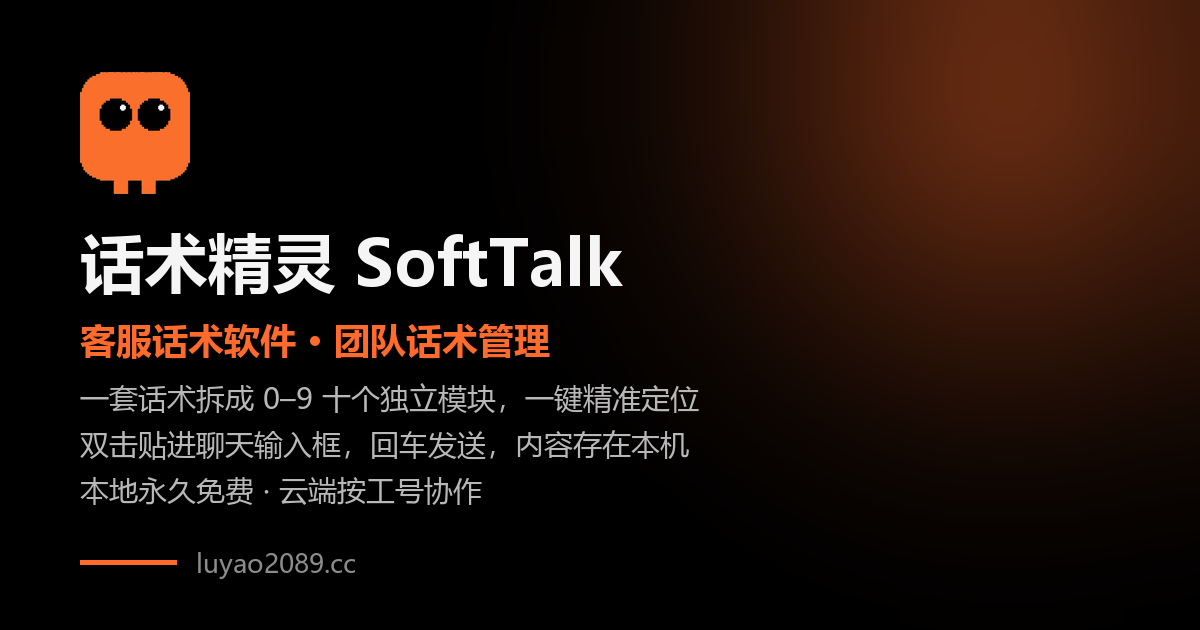
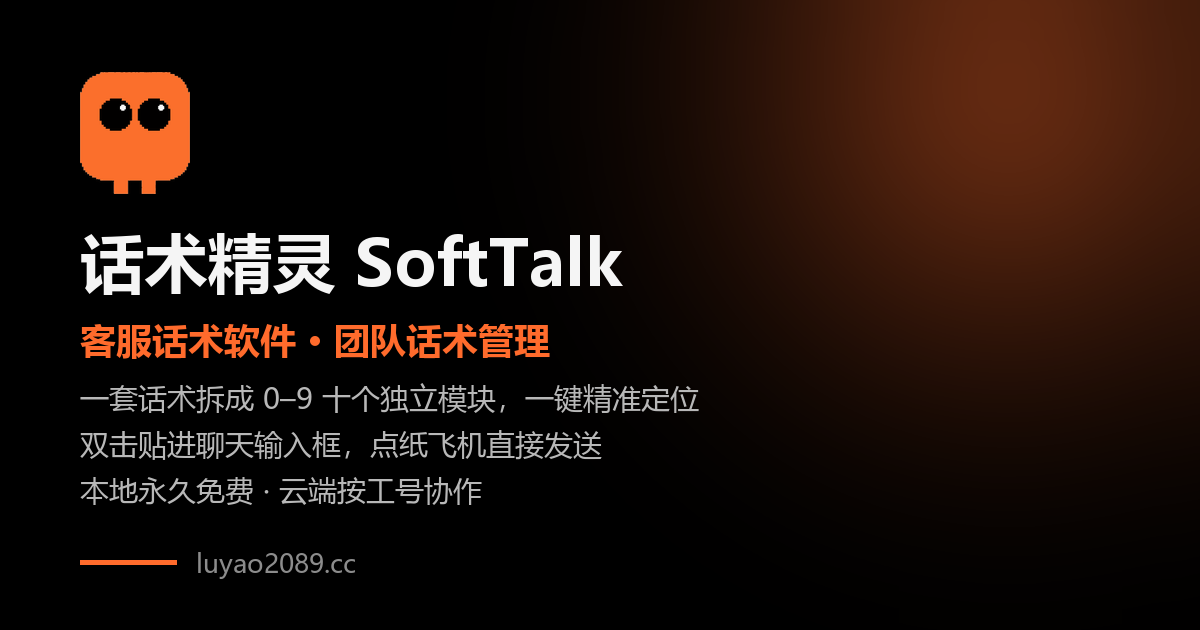
首页文案：本地优先保存、需要时再开云同步，去掉与云同步矛盾的「内容保存在本机」

Changed region(s): [[0.3083, 0.6635, 0.5858, 0.754]]

diff --git a/index.html b/index.html
@@ -10,7 +10,7 @@
 try { const t = localStorage.getItem("softtalk-theme") || (matchMedia("(prefers-color-scheme: dark)").matches ? "dark" : "light"); if (t === "dark") document.documentElement.dataset.theme = "dark"; } catch {}
 </script>
 <title>客服话术软件_微信销售话术管理工具 - 话术精灵 SoftTalk</title>
-<meta name="description" content="话术精灵是一款 Windows 客服话术软件：团队话术、个人话术、离线话术统一管理，一套话术可拆成 0–9 十个独立模块精准定位；双击把话术贴进聊天输入框、回车发送，内容存在本机，本地永久免费。" />
+<meta name="description" content="话术精灵是一款 Windows 客服话术软件：团队话术、个人话术、离线话术统一管理，一套话术可拆成 0–9 十个独立模块精准定位；双击把话术贴进聊天输入框、回车发送；话术优先存在本机、永久免费，需要多台电脑共享时再开云同步。" />
 <meta name="keywords" content="客服话术软件,话术软件,话术管理软件,客服话术管理软件,微信销售话术软件,客户话术软件,电商客服话术软件,快捷回复软件,团队话术共享,话术精灵" />
 <meta name="robots" content="index,follow,max-image-preview:large" />
 <link rel="canonical" href="https://luyao2089.cc/" />
@@ -18,12 +18,12 @@ try { const t = localStorage.getItem("softtalk-theme") || (matchMedia("(prefers-
 <meta property="og:site_name" content="话术精灵 SoftTalk" />
 <meta property="og:locale" content="zh_CN" />
 <meta property="og:title" content="客服话术软件_微信销售话术管理工具 - 话术精灵 SoftTalk" />
-<meta property="og:description" content="话术精灵是一款 Windows 客服话术软件：团队话术、个人话术、离线话术统一管理，一套话术可拆成 0–9 十个独立模块精准定位；双击把话术贴进聊天输入框、回车发送，内容存在本机，本地永久免费。" />
+<meta property="og:description" content="话术精灵是一款 Windows 客服话术软件：团队话术、个人话术、离线话术统一管理，一套话术可拆成 0–9 十个独立模块精准定位；双击把话术贴进聊天输入框、回车发送；话术优先存在本机、永久免费，需要多台电脑共享时再开云同步。" />
 <meta property="og:url" content="https://luyao2089.cc/" />
 <meta property="og:image" content="https://luyao2089.cc/assets/og.png" />
 <meta name="twitter:card" content="summary_large_image" />
 <meta name="twitter:title" content="客服话术软件_微信销售话术管理工具 - 话术精灵 SoftTalk" />
-<meta name="twitter:description" content="话术精灵是一款 Windows 客服话术软件：团队话术、个人话术、离线话术统一管理，一套话术可拆成 0–9 十个独立模块精准定位；双击把话术贴进聊天输入框、回车发送，内容存在本机，本地永久免费。" />
+<meta name="twitter:description" content="话术精灵是一款 Windows 客服话术软件：团队话术、个人话术、离线话术统一管理，一套话术可拆成 0–9 十个独立模块精准定位；双击把话术贴进聊天输入框、回车发送；话术优先存在本机、永久免费，需要多台电脑共享时再开云同步。" />
 <script type="application/ld+json">
 {
   "@context": "https://schema.org",
@@ -42,7 +42,7 @@ try { const t = localStorage.getItem("softtalk-theme") || (matchMedia("(prefers-
       "applicationSubCategory": "客服话术软件",
       "operatingSystem": "Windows",
       "inLanguage": "zh-CN",
-      "description": "话术精灵是一款 Windows 客服话术软件：团队话术、个人话术、离线话术统一管理，一套话术可拆成 0–9 十个独立模块精准定位；双击把话术贴进聊天输入框、回车发送，内容存在本机，本地永久免费。",
+      "description": "话术精灵是一款 Windows 客服话术软件：团队话术、个人话术、离线话术统一管理，一套话术可拆成 0–9 十个独立模块精准定位；双击把话术贴进聊天输入框、回车发送；话术优先存在本机、永久免费，需要多台电脑共享时再开云同步。",
       "featureList": [
         "团队话术、个人话术、离线话术三套话术库",
         "一套话术拆成 0–9 十个独立模块，一键精准定位",
@@ -100,7 +100,7 @@ try { const t = localStorage.getItem("softtalk-theme") || (matchMedia("(prefers-
     <img class="hero-logo" src="assets/logo.png" alt="" />
     <p class="eyebrow">电商客服话术工具</p>
     <h1>把客服话术<br />沉淀成<span class="hl">团队知识库</span></h1>
-    <p class="lead">话术精灵 SoftTalk 是一款 Windows 桌面工具：团队话术、个人话术、离线话术分开管理，双击把话术贴进聊天输入框，点左侧纸飞机直接发送，内容保存在本机。</p>
+    <p class="lead">话术精灵 SoftTalk 是一款 Windows 桌面工具：团队话术、个人话术、离线话术分开管理，双击把话术贴进聊天输入框，点左侧纸飞机直接发送。话术优先存在本机，需要多台电脑共享时再开云同步。</p>
     <div class="actions">
       <a class="btn btn--primary" href="https://www.kdocs.cn/l/cvnglmckRGBu" target="_blank" rel="noopener">下载 Windows 版</a>
       <a class="btn btn--ghost" href="#demo">试用演示</a>

diff --git a/scripts/build-og-image.py b/scripts/build-og-image.py
@@ -67,7 +67,7 @@ def main():
 
     lines = [
         "一套话术拆成 0–9 十个独立模块，一键精准定位",
-        "双击贴进聊天输入框，回车发送，内容存在本机",
+        "双击贴进聊天输入框，点纸飞机直接发送",
         "本地永久免费 · 云端按工号协作",
     ]
     body_y = y + 160
